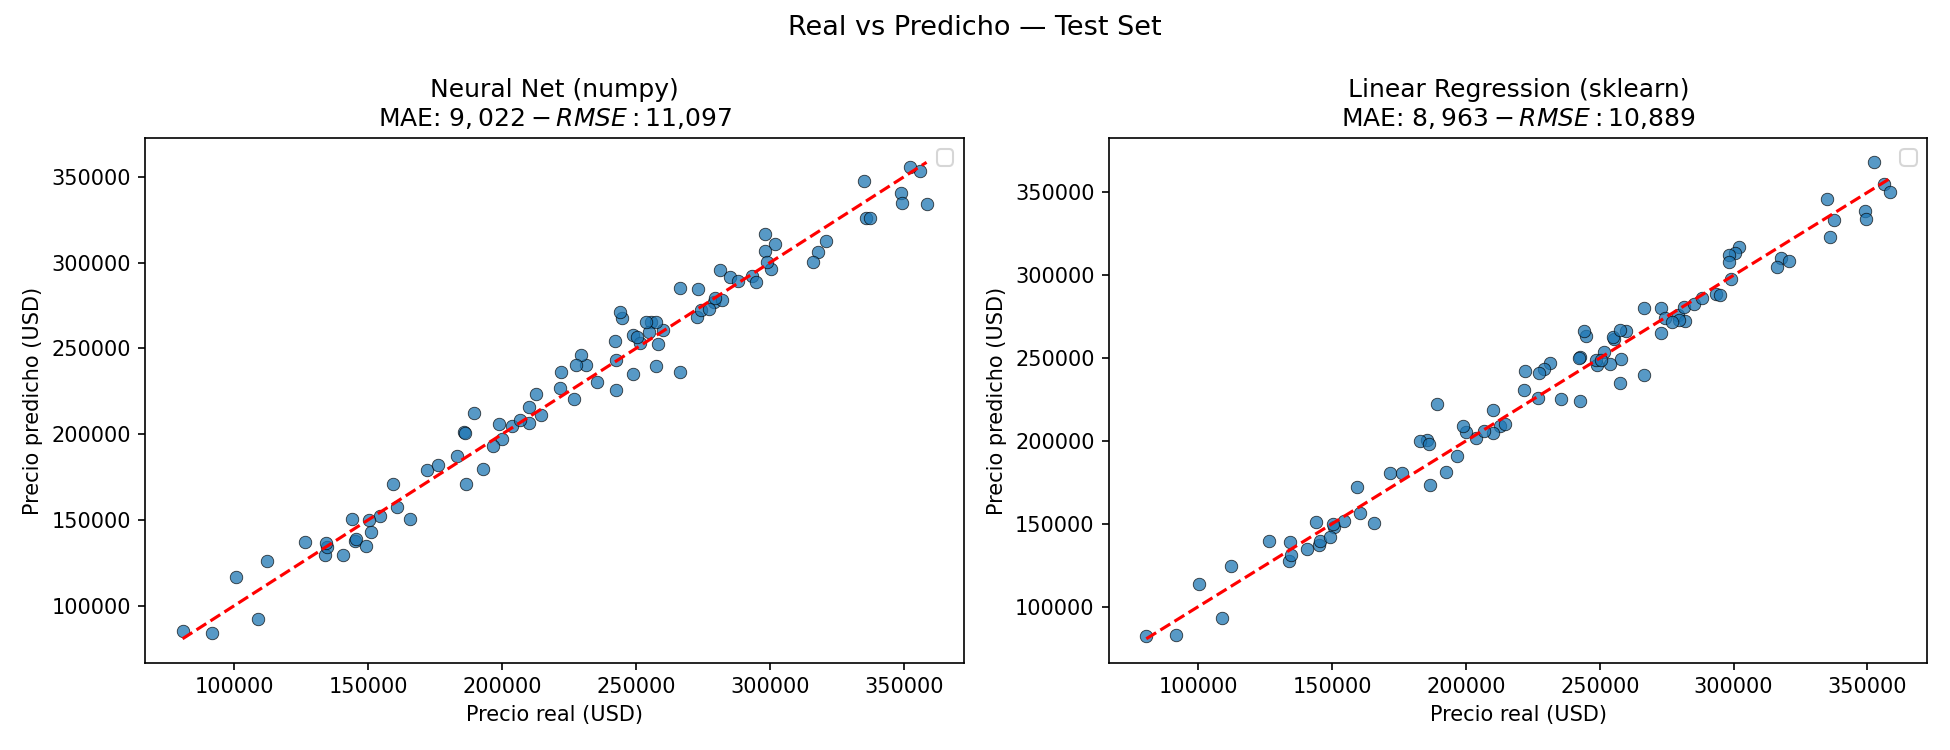
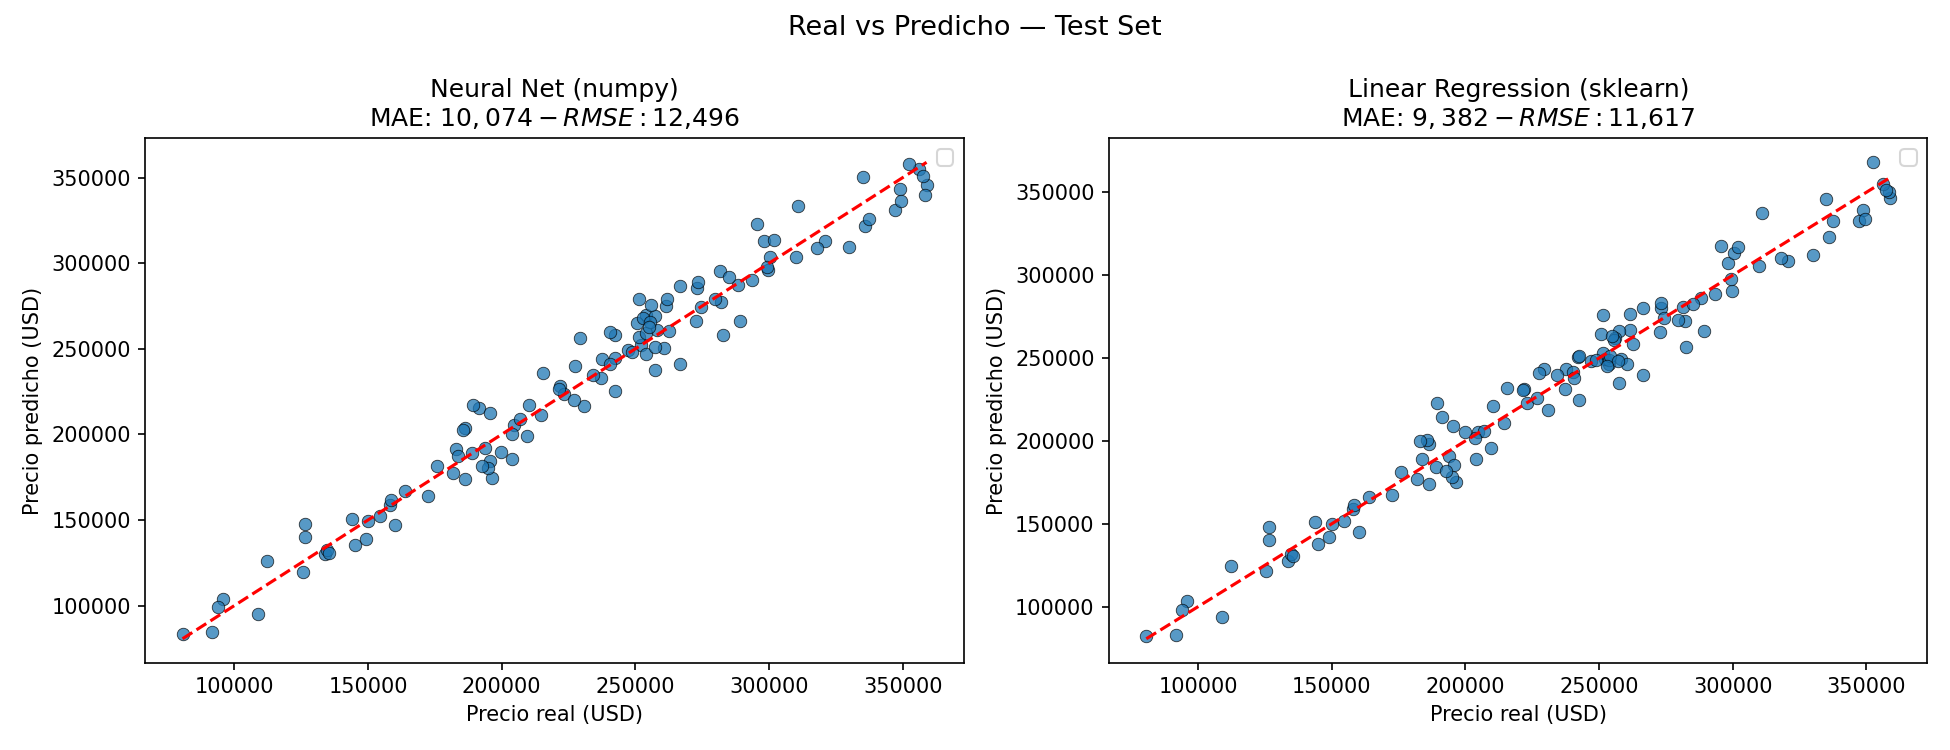
readme + demo

diff --git a/app.py b/app.py
@@ -1,0 +1,257 @@
+"""
+Streamlit Demo — Neural Network vs Linear Regression
+=====================================================
+Dataset: housing.csv (hardcoded, m2 · bedrooms · floors → price)
+Configurable hyperparameters: hidden layers, neurons/layer, lr, epochs
+"""
+
+import contextlib
+import io
+import os
+
+import matplotlib.pyplot as plt
+import numpy as np
+import pandas as pd
+import streamlit as st
+from sklearn.model_selection import train_test_split
+from sklearn.pipeline import Pipeline
+from sklearn.preprocessing import StandardScaler
+
+from linear_regression_baseline import LinearRegressionModel
+from net import NeuralNet
+
+# ─────────────────────────────────────────────────────────────
+# PAGE CONFIG
+# ─────────────────────────────────────────────────────────────
+
+st.set_page_config(
+    page_title="Neural Net Demo",
+    page_icon="🧠",
+    layout="wide",
+)
+
+st.title("🧠 Neural Network vs Linear Regression")
+st.caption("Dataset: housing.csv — predice precio de vivienda (USD)")
+
+# ─────────────────────────────────────────────────────────────
+# DATOS (hardcodeados, se cachean)
+# ─────────────────────────────────────────────────────────────
+
+
+@st.cache_data
+def load_data():
+    path_csv = os.path.join(os.path.dirname(
+        os.path.abspath(__file__)), "housing.csv")
+    df = pd.read_csv(path_csv)
+    p99 = df["price"].quantile(0.99)
+    df = df[df["price"] <= p99].reset_index(drop=True)
+    X = df.drop(columns=["price"]).values
+    y = df["price"].values.reshape(-1, 1)
+    return train_test_split(X, y, test_size=0.2, random_state=42)
+
+
+X_train, X_test, y_train, y_test = load_data()
+
+# ─────────────────────────────────────────────────────────────
+# SIDEBAR — HIPERPARÁMETROS
+# ─────────────────────────────────────────────────────────────
+
+st.sidebar.header("⚙ Hiperparámetros")
+
+n_hidden = st.sidebar.slider(
+    "Capas ocultas", min_value=1, max_value=10, value=2,
+    help="Cantidad de capas ocultas (ReLU). La capa de salida es lineal.",
+)
+
+st.sidebar.markdown("**Neuronas por capa oculta:**")
+neurons_per_layer = [
+    st.sidebar.slider(
+        f"Capa oculta {i + 1}",
+        min_value=1,
+        max_value=36,
+        value=16,
+        key=f"neurons_{i}",
+    )
+    for i in range(n_hidden)
+]
+
+lr = st.sidebar.select_slider(
+    "Learning rate",
+    options=[0.0001, 0.0005, 0.001, 0.005, 0.01, 0.05, 0.1],
+    value=0.01,
+    format_func=lambda x: f"{x:.4f}".rstrip("0"),
+)
+
+epochs = st.sidebar.slider(
+    "Épocas (iteraciones)", min_value=100, max_value=3000,
+    value=800, step=100,
+)
+
+# Arquitectura derivada
+INPUT_DIM = 3   # m2, bedrooms, floors — fijo
+layer_dims = [INPUT_DIM] + neurons_per_layer + [1]
+
+st.sidebar.markdown("---")
+st.sidebar.markdown("**Arquitectura resultante:**")
+
+arch_lines = []
+arch_lines.append(f"Input  →  {INPUT_DIM}  (fijo)")
+for i, d in enumerate(layer_dims[1:-1], start=1):
+    arch_lines.append(f"Hidden {i}  →  {d}  [ReLU]")
+arch_lines.append(f"Output  →  1  [lineal]")
+
+st.sidebar.code("\n".join(arch_lines), language=None)
+
+st.sidebar.markdown("---")
+train_btn = st.sidebar.button(
+    "🚀 Entrenar y Comparar", use_container_width=True, type="primary")
+
+# ─────────────────────────────────────────────────────────────
+# ENTRENAMIENTO
+# ─────────────────────────────────────────────────────────────
+
+if train_btn:
+    # Normalización de features
+    feature_pipeline = Pipeline([("scaler", StandardScaler())])
+    X_train_prep = feature_pipeline.fit_transform(X_train)
+    X_test_prep = feature_pipeline.transform(X_test)
+
+    y_mean = float(y_train.mean())
+    y_std = float(y_train.std())
+    y_train_norm = (y_train - y_mean) / y_std
+
+    # ── Neural Net ────────────────────────────────────────────
+    np.random.seed(42)
+    with st.spinner("Entrenando red neuronal…"):
+        net = NeuralNet(layer_dims, lr=lr)
+        # Redirigimos stdout para silenciar los prints del loop de entrenamiento
+        with contextlib.redirect_stdout(io.StringIO()):
+            history = net.train(
+                X_train_prep, y_train_norm,
+                epochs=epochs,
+                log_every=epochs + 1,   # sin prints intermedios
+                y_std=y_std,
+                y_mean=y_mean,
+            )
+    nn_results = net.evaluate(X_test_prep, y_test, y_mean, y_std)
+
+    # ── Linear Regression ────────────────────────────────────
+    with st.spinner("Entrenando regresión lineal…"):
+        lr_model = LinearRegressionModel()
+        lr_model.train(X_train, y_train)
+    lr_results = lr_model.evaluate(X_test, y_test)
+
+    # Guardar en session_state
+    st.session_state["history"] = history
+    st.session_state["nn_results"] = nn_results
+    st.session_state["lr_results"] = lr_results
+    st.session_state["trained"] = True
+    st.session_state["config"] = {
+        "layer_dims": layer_dims,
+        "lr": lr,
+        "epochs": epochs,
+    }
+
+# ─────────────────────────────────────────────────────────────
+# RESULTADOS
+# ─────────────────────────────────────────────────────────────
+
+if st.session_state.get("trained"):
+    history = st.session_state["history"]
+    nn_results = st.session_state["nn_results"]
+    lr_results = st.session_state["lr_results"]
+    config = st.session_state["config"]
+
+    nn_mae = nn_results["mae"]
+    nn_rmse = nn_results["rmse"]
+    lr_mae = lr_results["mae"]
+    lr_rmse = lr_results["rmse"]
+
+    # ── Métricas ─────────────────────────────────────────────
+    st.subheader("Métricas — Test Set")
+
+    col1, col2, col3, col4 = st.columns(4)
+
+    col1.metric(
+        "Neural Net — MAE",
+        f"${nn_mae:,.0f}",
+    )
+    col2.metric(
+        "Neural Net — RMSE",
+        f"${nn_rmse:,.0f}",
+    )
+    col3.metric(
+        "Lin. Reg. — MAE",
+        f"${lr_mae:,.0f}",
+        delta=f"${lr_mae - nn_mae:+,.0f} vs NN",
+        delta_color="inverse",
+        help="Negativo = Lin. Reg. mejor que NN",
+    )
+    col4.metric(
+        "Lin. Reg. — RMSE",
+        f"${lr_rmse:,.0f}",
+        delta=f"${lr_rmse - nn_rmse:+,.0f} vs NN",
+        delta_color="inverse",
+        help="Negativo = Lin. Reg. mejor que NN",
+    )
+
+    st.markdown("---")
+
+    # ── Gráficos en dos columnas ──────────────────────────────
+    col_loss, col_scatter = st.columns([1, 2])
+
+    # Loss curve
+    with col_loss:
+        st.subheader("Curva de Pérdida")
+        fig1, ax1 = plt.subplots(figsize=(5, 4))
+        ax1.plot(history["train"], color="#1f77b4",
+                 linewidth=2, label="Train MSE")
+        ax1.set_xlabel("Época")
+        ax1.set_ylabel("MSE (norm.)")
+        ax1.set_title(f"lr={config['lr']}  ·  {config['epochs']} épocas")
+        ax1.legend()
+        ax1.grid(True, alpha=0.3)
+        plt.tight_layout()
+        st.pyplot(fig1)
+        plt.close(fig1)
+
+    # Scatter Real vs Predicho
+    with col_scatter:
+        st.subheader("Real vs Predicho")
+        y_test_flat = y_test.flatten()
+        min_val = y_test_flat.min()
+        max_val = y_test_flat.max()
+
+        fig2, (ax_nn, ax_lr) = plt.subplots(1, 2, figsize=(10, 4))
+        fig2.suptitle("Real vs Predicho — Test Set", fontsize=12)
+
+        for ax, results, title, color in zip(
+            [ax_nn, ax_lr],
+            [nn_results, lr_results],
+            ["Neural Net (numpy)", "Linear Regression (sklearn)"],
+            ["#1f77b4", "#ff7f0e"],
+        ):
+            ax.scatter(
+                y_test_flat,
+                results["y_pred"].flatten(),
+                alpha=0.65,
+                edgecolors="k",
+                linewidths=0.3,
+                color=color,
+            )
+            ax.plot([min_val, max_val], [min_val, max_val], "r--",
+                    linewidth=1.5, label="Predicción perfecta")
+            ax.set_xlabel("Precio real (USD)")
+            ax.set_ylabel("Precio predicho (USD)")
+            ax.set_title(
+                f"{title}\nMAE: ${results['mae']:,.0f}  ·  RMSE: ${results['rmse']:,.0f}"
+            )
+            ax.legend(fontsize=8)
+            ax.grid(True, alpha=0.2)
+
+        plt.tight_layout()
+        st.pyplot(fig2)
+        plt.close(fig2)
+
+else:
+    st.info("⬅  Configurá los hiperparámetros en el panel izquierdo y presioná **Entrenar y Comparar**.")

diff --git a/main.py b/main.py
@@ -49,8 +49,8 @@ y_train_norm = (y_train - y_mean) / y_std
 
 np.random.seed(42)
 net = NeuralNet([3, 16, 8, 1], lr=0.01)
-net.train(X_train_prep, y_train_norm, epochs=1000,
-          log_every=200, y_std=y_std, y_mean=y_mean)
+history = net.train(X_train_prep, y_train_norm, epochs=800,
+                    log_every=200, y_std=y_std, y_mean=y_mean)
 
 lr_model = LinearRegressionModel()
 lr_model.train(X_train, y_train)

diff --git a/README.md b/README.md
@@ -4,12 +4,32 @@ A fully-connected neural network implemented in **pure NumPy**: forward pass, ba
 
 ---
 
+## Interactive Demo
+
+The project includes a **Streamlit demo** that lets you tweak hyperparameters in real time and visualize the results:
+
+- Number of hidden layers (1–10)
+- Neurons per individual layer (1–36)
+- Learning rate and number of epochs
+- Automatic comparison against Linear Regression
+- Loss curve and predicted vs. actual scatter plots
+
+```bash
+streamlit run app.py
+```
+
+> **[Open Demo on Streamlit Cloud](https://tu-app.streamlit.app)** ← replace with your deploy URL
+
+---
+
 ## Project Structure
 
 ```
 ├── net.py                          # Neural network implemented from scratch
 ├── linear_regression_baseline.py   # Baseline using sklearn
 ├── main.py                         # Main script: data, training, evaluation
+├── app.py                          # Interactive Streamlit demo
+├── housing.csv                     # Dataset
 ├── loss_curve.png                  # Train vs. validation loss curve
 └── comparacion.png                 # Predicted vs. actual scatter plots (NN vs. LR)
 ```
@@ -24,10 +44,13 @@ git clone https://github.com/Juanarena29/NeuralNetworkv1
 cd NeuralNetworkv1
 
 # Install dependencies
-pip install numpy pandas scikit-learn matplotlib
+pip install numpy pandas scikit-learn matplotlib streamlit
 
 # Run
 python main.py
+
+# Run interactive demo
+streamlit run app.py
 ```
 
 The script trains both the neural network and the linear regression model, prints metrics to the console, and saves `loss_curve.png` and `comparacion.png` to the current directory.
